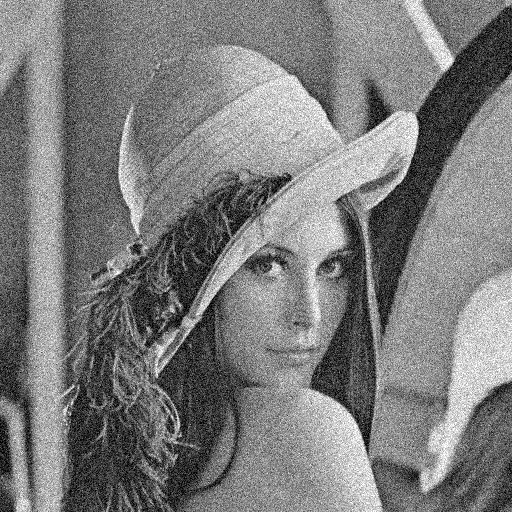
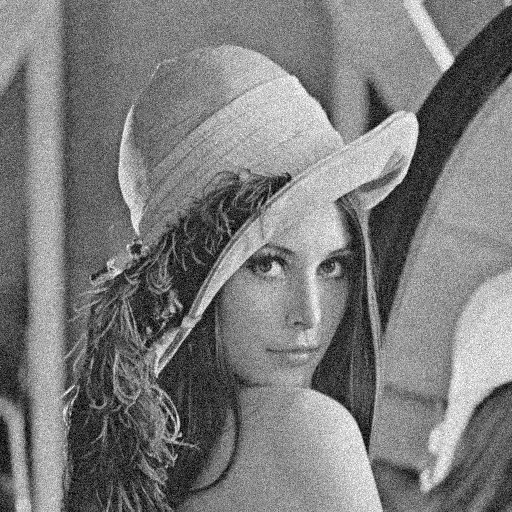
Uploaded a few changes

diff --git a/tools/plotTool.m b/tools/plotTool.m
@@ -3,11 +3,36 @@ close all;
 
 addpath('../data/')
 
-% localSmoothness = table2array(readtable("localSmoothness.csv"));
+denoisedImages0 = table2array(readtable("denoisedImages0.csv"));
+denoisedImages1 = table2array(readtable("denoisedImages230.csv"));
+% localSmoothness10 = table2array(readtable("localSmoothness10.csv"));
+% localSmoothness11 = table2array(readtable("localSmoothness11.csv"));
+% localSmoothness12 = table2array(readtable("localSmoothness90.csv"));
+
+% 
+figure; imagesc(reshape(denoisedImages0, [512 512]).')
+colormap gray
+figure; surf(reshape(denoisedImages0, [512 512]).')
+
+figure; imagesc(reshape(denoisedImages1, [512 512]).')
+colormap gray
+figure; surf(reshape(denoisedImages1, [512 512]).')
+
+figure; imagesc(reshape(localSmoothness0-localSmoothness1, [512 512]).')
+% 
+% figure; imagesc(reshape(localSmoothness10, [512 512]).')
+% colormap gray
+% 
+% figure; imagesc(reshape(localSmoothness11, [512 512]).')
+% colormap gray
+% 
+% figure; imagesc(reshape(localSmoothness12, [512 512]).')
+% colormap gray
+
 % generalAverage = table2array(readtable("generalAverage.csv"));
 % gradient = table2array(readtable("gradient.csv"));
-denoisedImage0 = table2array(readtable("denoisedImages0.csv"));
-denoisedImage500 = table2array(readtable("denoisedImages60.csv"));
+%denoisedImage0 = table2array(readtable("denoisedImages0.csv"));
+%denoisedImage500 = table2array(readtable("denoisedImages60.csv"));
 %denoisedImage500 = denoisedImage500./max(denoisedImage500);
 
 
@@ -17,10 +42,10 @@ denoisedImage500 = table2array(readtable("denoisedImages60.csv"));
 % colormap gray
 % 
 % 
-% filteredImage = ones(512*512,1);
-% filteredImage(localSmoothness<.92) = 0;
-% figure; imagesc(reshape(filteredImage, [512 512]).')
-% colormap gray
+filteredImage = ones(512*512,1);
+filteredImage(localSmoothness0<.35) = 0;
+figure; imagesc(reshape(filteredImage, [512 512]).')
+colormap gray
 % 
 % filteredImage = ones(512*512,1);
 % filteredImage(generalAverage<.92) = 0;

diff --git a/src/fuzzyDiffusionFilter.py b/src/fuzzyDiffusionFilter.py
@@ -47,6 +47,12 @@ class fuzzyDiffusionFilter:
         self.localSmoothness = localSmoothness
         self.generalAverage = generalAverage
 
+    def thresholdLocalSmoothness(self):
+        localSmoothness = np.array(self.localSmoothness)
+        localSmoothness[localSmoothness<0.35] = 0
+        localSmoothness[localSmoothness != 0] = 1
+        self.localSmoothness = list(localSmoothness)
+
     def calculateLocalGradients(self):
         gradient = []
         for currentPixel in range(self.Nx*self.Ny):
@@ -61,16 +67,20 @@ class fuzzyDiffusionFilter:
 
     def timeIntegrate(self):
         timeSteps = int(self.finalTime/self.dt)
+        timeSteps = 1000
         for iTimeStep in range(timeSteps+1):
             print(iTimeStep)
             noisyImage = self.image
             self.createSimilarityMatrices()
             self.calculateLocalAndGeneralSmoothness()
+            self.thresholdLocalSmoothness()
             self.calculateLocalGradients()
             noisyImage = noisyImage + list(np.array(self.gradient) * self.lambd*self.dt)
             self.image = noisyImage
-            if iTimeStep%20 == 0:
-                np.savetxt('..\\data\\denoisedImages'+str(iTimeStep)+'.csv',  noisyImage, delimiter=",")
+            if iTimeStep%10 == 0:
+                #np.savetxt('..\\data\\localSmoothness'+str(iTimeStep)+'.csv',  self.localSmoothness, delimiter=",")
+                np.savetxt('../data/denoisedImages'+str(iTimeStep)+'.csv',  self.image, delimiter=",")
+            #a = input('').split(" ")[0]
         self.denoisedImage = noisyImage
 
     def solve(self):

diff --git a/src/constants.py b/src/constants.py
@@ -4,10 +4,10 @@ L1 = 1
 L2 = 1
 NX = 512
 NY = 512
-HORIZON = 3.015
-#HORIZON = 1.42
+#HORIZON = 3.015
+HORIZON = 1.42
 q = 2
-Dn = 255
-FINALTIME = 1
+Dn = 2**8-1
+FINALTIME = 100
 DELTAT = 0.001
 LAMBDA = 0.25
